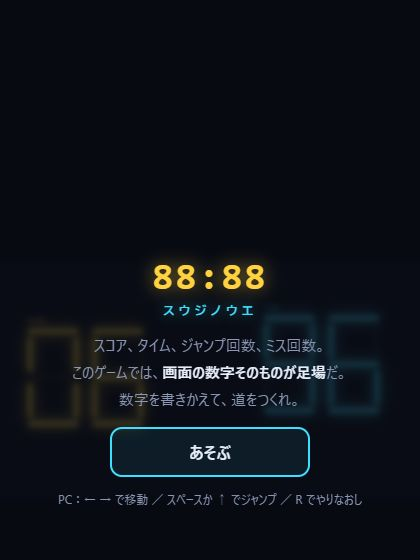
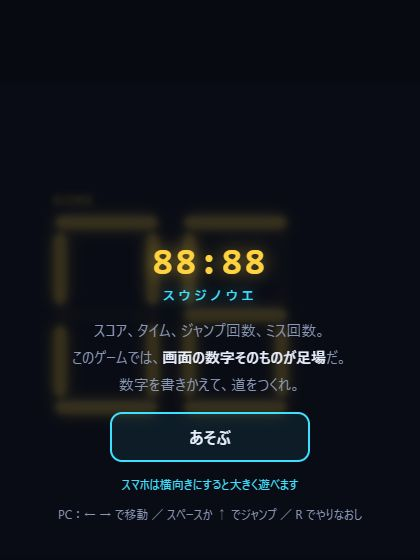
自動公開 / 更新: スウジノウエ

Changed region(s): [[0.0619, 0.3643, 0.9286, 0.9411], [0.1238, 0.8804, 0.1857, 0.9411]]

diff --git a/apps/suji-no-ue/index.html b/apps/suji-no-ue/index.html
@@ -50,6 +50,8 @@ h2{margin:0;font-size:24px}
 #pad button.on{background:rgba(63,224,255,.3);border-color:var(--time)}
 #pad #bJ{width:92px;height:92px;font-size:18px}
 .keys{font-size:12px;color:var(--muted)}
+.portrait{display:none;color:var(--time)}
+@media (orientation:portrait){.portrait{display:block}}
 </style>
 </head>
 <body>
@@ -71,6 +73,7 @@ h2{margin:0;font-size:24px}
   <div class="logo">88:88<small>スウジノウエ</small></div>
   <p class="lead">スコア、タイム、ジャンプ回数、ミス回数。<br>このゲームでは、<b>画面の数字そのものが足場</b>だ。<br>数字を書きかえて、道をつくれ。</p>
   <button class="btn" id="bStart">あそぶ</button>
+  <div class="keys portrait">スマホは横向きにすると大きく遊べます</div>
   <div class="keys">PC：← → で移動 ／ スペースか ↑ でジャンプ ／ R でやりなおし</div>
 </div>
 
@@ -97,7 +100,7 @@ h2{margin:0;font-size:24px}
 
 <script>
 /*! © kato200000354. 無断転載・複製・再配布を禁止します。 */
-const CORE=(()=>{const e=["abcdef","bc","abdeg","abcdg","bcfg","acdfg","acdefg","abc","abcdefg","abcdfg"],t=20,n=28;function o(e,t,n){const o=80*n,i=16*n,s=o+2*i;return{a:[e,t,s,i,1],g:[e,t+o+i,s,i,1],d:[e,t+2*o+2*i,s,i,1],f:[e,t+i,i,o,0],b:[e+o+i,t+i,i,o,0],e:[e,t+o+2*i,i,o,0],c:[e+o+i,t+o+2*i,i,o,0]}}function i(e,t){const n=e.s||1;return e.x+t*(112*n+22*n)}function s(e,t){const n=t.n||1,o=(Math.floor(function(e,t){switch(t.k){case"score":return e.score;case"time":return Math.max(0,Math.ceil(e.timeLeft-1e-9));case"jump":return e.jumps;case"miss":return e.miss;default:return t.v||0}}(e,t))%10**n+10**n)%10**n;return String(o).padStart(n,"0").split("").map(Number)}function a(t){const n=t.lv,a=[];n.solids.forEach((e,t)=>a.push({x:e[0],y:e[1],w:e[2],h:e[3],one:!1,k:"s"+t}));for(const l of n.hud)!1!==l.solid&&s(t,l).forEach((t,s)=>{const r=n.hud.indexOf(l)+"-"+s,c=o(i(l,s),l.y,l.s||1);for(const n of e[t]){const e=c[n];a.push({x:e[0],y:e[1],w:e[2],h:e[3],one:1===e[4],k:r+n})}});return a}function l(e,t=0){return{lv:e,px:e.start[0],py:e.start[1]-n,vx:0,vy:0,ground:!1,coy:0,buf:0,prevJ:!1,cut:!1,score:e.score||0,jumps:0,miss:t,timeLeft:e.time,t:0,taken:e.coins.map(()=>!1),dead:0,deadWhy:"",won:!1,face:1,ev:[]}}const r=(e,o)=>e.px<o.x+o.w&&e.px+t>o.x&&e.py<o.y+o.h&&e.py+n>o.y;function c(e,t){e.dead=.75,e.deadWhy=t,e.miss++,e.ev.push("die")}return{SEG:e,LEVELS:[{name:"スコアは足場",hint:"コインをとると SCORE が変わる。……その数字、乗れるよ。",time:60,score:1,start:[50,480],solids:[[0,480,280,60],[680,480,280,60]],hud:[{k:"score",x:424,y:480,n:1}],coins:[{x:160,y:455,v:1}],goal:[880,410]},{name:"TIMEは待ってくれない",hint:"TIME も足場。でも、数字は止まらない。",time:25,start:[50,480],solids:[[0,480,250,60],[720,480,240,60]],hud:[{k:"time",x:362,y:480,n:2}],coins:[],goal:[880,410]},{name:"JUMPの数だけ",hint:"ジャンプするたびに JUMP の形が変わる。高い所へ。",time:60,start:[50,480],solids:[[0,480,960,60],[760,220,200,20]],hud:[{k:"jump",x:600,y:272,n:1}],coins:[],goal:[880,150]},{name:"失敗が道をつくる",hint:"どうしても渡れない？　……MISS も、数字だ。",time:30,start:[50,480],solids:[[0,480,240,60],[746,480,214,60]],hud:[{k:"miss",x:420,y:355.2,n:1,s:1.3}],coins:[],goal:[880,410]},{name:"よけられないコイン",hint:"橋の上のコインは、よけられない。",time:60,score:0,start:[50,480],solids:[[0,480,260,60],[700,480,260,60],[460,0,40,442]],hud:[{k:"score",x:424,y:480,n:1}],coins:[{x:110,y:455,v:1},{x:200,y:360,v:2},{x:475,y:462,v:4}],goal:[880,410]},{name:"ぜんぶ足場",hint:"ここでは、すべての数字が足場。",w:1900,time:45,score:4,start:[50,480],solids:[[0,480,330,60],[330,230,170,20],[946,230,160,20],[940,480,330,60],[1640,480,260,60],[1385,0,40,442]],hud:[{k:"jump",x:200,y:272,n:1},{k:"time",x:600,y:230,n:2},{k:"score",x:1350,y:480,n:1}],coins:[{x:420,y:200,v:3},{x:1120,y:455,v:2},{x:1401,y:462,v:2}],goal:[1820,410]}],PW:t,PH:n,digitRects:o,digitX:i,hudDigits:s,activeRects:a,newState:l,step:function(e,o,i){if(e.won)return;if(e.dead>0)return e.dead-=i,void(e.dead<=0&&(!function(e){const t=e.miss,n=e.ev;Object.assign(e,l(e.lv,t)),e.ev=n}(e),e.ev.push("respawn")));if(e.t+=i,e.timeLeft-=i,e.timeLeft<=0)return e.timeLeft=0,void c(e,"time");let s=a(e);!function(e,o){for(const i of o){if(!r(e,i))continue;const o=e.py+n-i.y;if(i.one){o<=10&&e.vy>=0&&(e.py=i.y-n,e.vy=0);continue}const s=i.y+i.h-e.py,a=e.px+t-i.x,l=i.x+i.w-e.px,c=Math.min(.6*o,s,a,l);c===.6*o?(e.py=i.y-n,e.vy>0&&(e.vy=0)):c===s?e.py=i.y+i.h:e.px=c===a?i.x-t:i.x+i.w}}(e,s);const f=(o.r?1:0)-(o.l?1:0);f&&(e.face=f);const d=(e.ground?3200:2200)*i,h=250*f;e.vx=e.vx<h?Math.min(h,e.vx+d):Math.max(h,e.vx-d),o.j&&!e.prevJ&&(e.buf=.12),e.prevJ=!!o.j,e.buf>0&&(e.buf-=i),e.buf>0&&(e.ground||e.coy>0)&&(e.vy=-700,e.ground=!1,e.coy=0,e.buf=0,e.cut=!1,e.jumps++,e.ev.push("jump"),s=a(e)),!o.j&&e.vy<-320&&!e.cut&&(e.vy=-320,e.cut=!0),e.vy=Math.min(e.vy+1800*i,1100),e.px+=e.vx*i,e.px<0&&(e.px=0),e.px>(e.lv.w||960)-t&&(e.px=(e.lv.w||960)-t);for(const n of s)!n.one&&r(e,n)&&(e.px+10<n.x+n.w/2?e.px=n.x-t:e.px=n.x+n.w,e.vx=0);const u=e.py+n,p=e.ground;e.py+=e.vy*i,e.ground=!1;for(const t of s)r(e,t)&&(t.one?e.vy>=0&&u<=t.y+.5&&(e.py=t.y-n,e.vy=0,e.ground=!0,e.stand=t.k):e.vy>0?(e.py=t.y-n,e.vy=0,e.ground=!0,e.stand=t.k):e.vy<0&&(e.py=t.y+t.h,e.vy=0));if(e.ground||p&&e.vy>=0&&s.some(t=>t.k===e.stand)?e.coy=.09:p?e.coy=0:e.coy-=i,!e.ground&&p&&e.vy<0&&(e.coy=0),e.lv.coins.forEach((o,i)=>{if(e.taken[i])return;const s=Math.max(e.px,Math.min(o.x,e.px+t)),a=Math.max(e.py,Math.min(o.y,e.py+n));(s-o.x)**2+(a-o.y)**2<144&&(e.taken[i]=!0,e.score+=o.v,e.ev.push("coin"))}),e.py+n>494)return void c(e,"fall");const m=e.lv.goal;r(e,{x:m[0],y:m[1],w:44,h:70})&&(e.won=!0,e.ev.push("win"))}}})();(()=>{const{SEG:e,LEVELS:t,PW:n,PH:o,digitRects:i,digitX:s,hudDigits:a,newState:l,step:r}=CORE,c=960,f=540,d=1/120,h={score:"#ffd23f",time:"#3fe0ff",jump:"#7dff6a",miss:"#ff5c8a"},u={score:"SCORE",time:"TIME",jump:"JUMP",miss:"MISS"},p=e=>document.getElementById(e),m=p("cv"),y=m.getContext("2d");let v=1,x=0,g=0,b=1;const M="suji-no-ue-v1";let w={cleared:{},best:{}};try{const e=JSON.parse(localStorage.getItem(M));e&&e.cleared&&(w=e)}catch(e){}const S=()=>{try{localStorage.setItem(M,JSON.stringify(w))}catch(e){}};let k=null;function T(){if(!k)try{k=new(window.AudioContext||window.webkitAudioContext)}catch(e){}k&&"suspended"===k.state&&k.resume()}function E(e,t,n="square",o=.06,i){if(!k)return;const s=k.currentTime,a=k.createOscillator(),l=k.createGain();a.type=n,a.frequency.setValueAtTime(e,s),i&&a.frequency.exponentialRampToValueAtTime(i,s+t),l.gain.setValueAtTime(o,s),l.gain.exponentialRampToValueAtTime(1e-4,s+t),a.connect(l),l.connect(k.destination),a.start(s),a.stop(s+t+.02)}const L=()=>E(420,.12,"square",.04,760),R=()=>{E(988,.08,"square",.05),setTimeout(()=>E(1319,.14,"square",.05),70)},A=()=>E(300,.45,"sawtooth",.06,60),P=()=>[523,659,784,1047].forEach((e,t)=>setTimeout(()=>E(e,.18,"square",.05),90*t)),C=()=>E(1800,.025,"square",.015);let j="title",I=0,B=null,W=0,J=0,q=0,O=0,$="";const H={l:!1,r:!1,j:!1},G={};function N(){b=Math.min(2,window.devicePixelRatio||1),m.width=innerWidth*b,m.height=innerHeight*b,v=Math.min(innerWidth/c,innerHeight/f),x=(innerWidth-c*v)/2,g=(innerHeight-f*v)/2}function U(e){["title","select","clear","ending"].forEach(t=>p(t).hidden=t!==e)}function D(e){I=e,B=l(t[e]),j="play",q=0,W=0,$="",U(null),p("bar").hidden=!1,p("lvName").textContent=`STAGE ${e+1}　${t[e].name}`,p("skip").hidden=!0,p("pad").hidden=!F}function V(){j="select",p("bar").hidden=!0,p("pad").hidden=!0;const e=p("grid");e.innerHTML="",t.forEach((t,n)=>{const o=0===n||w.cleared[n-1]||w.cleared[n],i=document.createElement("button");i.className="lv"+(o?"":" locked")+(w.cleared[n]?" done":""),i.innerHTML=`<span class="n">${String(n+1).padStart(2,"0")}</span><span class="t">${o?t.name:"？？？"}</span><span class="c">${w.cleared[n]?"CLEAR　MISS "+w.best[n]:""}</span>`,o&&(i.onclick=()=>{T(),D(n)}),e.appendChild(i)}),U("select")}function K(){j="clear",w.cleared[I]=!0,w.best[I]=Math.min(w.best[I]??99,B.miss),S(),p("stats").innerHTML=`STAGE <span>${I+1}</span><br>MISS <span>${B.miss}</span>　TIME <span>${Math.ceil(B.timeLeft)}</span><br>ベストMISS <span>${w.best[I]}</span>`,p("pad").hidden=!0,setTimeout(()=>{"clear"===j&&(I===t.length-1?U("ending"):U("clear"))},700)}addEventListener("resize",N),N(),p("bStart").onclick=()=>{T(),V()},p("bBack").onclick=()=>{j="title",U("title")},p("bNext").onclick=()=>{T(),I+1<t.length?D(I+1):V()},p("bSel").onclick=V,p("bEnd").onclick=V,p("bMenu").onclick=V,p("bRe").onclick=()=>{if("play"===j){const e=B.miss;B=l(t[I],e)}},p("skip").onclick=()=>{w.cleared[I]=w.cleared[I]||!1,I+1<t.length?(w.cleared[I]=!0,w.best[I]=w.best[I]??99,S(),D(I+1)):V()},addEventListener("keydown",e=>{G[e.code]=!0,["Space","ArrowUp","ArrowDown","ArrowLeft","ArrowRight"].includes(e.code)&&e.preventDefault(),T(),"play"===j&&"KeyR"===e.code&&p("bRe").onclick(),"play"===j&&"Escape"===e.code&&V()}),addEventListener("keyup",e=>{G[e.code]=!1});let F=matchMedia("(pointer:coarse)").matches;addEventListener("touchstart",()=>{F||(F=!0,"play"===j&&(p("pad").hidden=!1))},{passive:!0});const X={bL:!1,bR:!1,bJ:!1};function _(e,t,n,o){const i=Math.min(n,o)/2;y.beginPath(),n>=o?(y.moveTo(e+i,t),y.lineTo(e+n-i,t),y.lineTo(e+n,t+i),y.lineTo(e+n-i,t+o),y.lineTo(e+i,t+o),y.lineTo(e,t+i)):(y.moveTo(e+i,t),y.lineTo(e+n,t+i),y.lineTo(e+n,t+o-i),y.lineTo(e+i,t+o),y.lineTo(e,t+o-i),y.lineTo(e,t+i)),y.closePath()}function z(t,n,o){const l=h[t.k]||"#b59cff",r=t.s||1,c=a(n,t);y.save(),y.font=`800 ${Math.round(13*r+3)}px ui-monospace,Consolas,monospace`,y.fillStyle=l,y.globalAlpha=.75,y.textBaseline="bottom",y.fillText(u[t.k]||"",t.x,t.y-6*r),y.globalAlpha=1,c.forEach((n,a)=>{const c=i(s(t,a),t.y,r),f=e[n];for(const e of"abcdefg"){const t=c[e],n=1.5*r,i=t[0]+n,s=t[1]+n,a=t[2]-2*n,d=t[3]-2*n,h=f.includes(e);_(i,s,a,d),h?(y.shadowColor=l,y.shadowBlur=o?14:8,y.fillStyle=l,y.fill(),y.shadowBlur=0,1===t[4]&&(y.fillStyle="rgba(255,255,255,.55)",y.fillRect(i+4,s,a-8,2))):(y.fillStyle=l+"14",y.fill(),y.strokeStyle=l+"22",y.lineWidth=1,y.stroke())}}),y.restore()}function Y(e){if(y.setTransform(1,0,0,1,0,0),y.fillStyle="#05070d",y.fillRect(0,0,m.width,m.height),y.setTransform(b*v,0,0,b*v,b*x,b*g),y.save(),y.beginPath(),y.rect(0,0,c,f),y.clip(),y.fillStyle="#0b0f1a",y.fillRect(0,0,c,f),!B)return function(e){const t=Math.floor(2*e)%100,n={score:t,timeLeft:99-Math.floor(e)%100,jumps:Math.floor(3*e),miss:0};y.globalAlpha=.35,z({k:"score",x:60,y:150,n:2,s:1.1},n,!0),z({k:"time",x:600,y:120,n:2,s:1.1},n,!0),y.globalAlpha=1}(e),void y.restore();const t=B.lv,i=t.w||c,s=Math.max(0,Math.min(i-c,B.px+n/2-480));let a=0,l=0;O>0&&(a=(Math.random()-.5)*O,l=(Math.random()-.5)*O),y.save(),y.translate(-s+a,l),y.strokeStyle="rgba(60,80,130,.12)",y.lineWidth=1;for(let e=40*Math.floor(s/40);e<s+c+40;e+=40)y.beginPath(),y.moveTo(e,0),y.lineTo(e,f),y.stroke();for(let e=0;e<f;e+=40)y.beginPath(),y.moveTo(s,e),y.lineTo(s+c,e),y.stroke();y.save(),y.fillStyle="rgba(255,92,138,.07)",y.fillRect(s,494,c,46),y.strokeStyle="#ff5c8a",y.shadowColor="#ff5c8a",y.shadowBlur=12,y.lineWidth=2.5,y.globalAlpha=.75+.2*Math.sin(9*e),y.beginPath(),y.moveTo(s,496),y.lineTo(s+c,496),y.stroke(),y.restore();for(const e of t.solids)y.fillStyle="#141b2b",y.fillRect(e[0],e[1],e[2],e[3]),y.strokeStyle="#3a4a70",y.lineWidth=2,y.strokeRect(e[0]+1,e[1]+1,e[2]-2,e[3]-2),e[1]>0&&(y.fillStyle="#5b6f9e",y.fillRect(e[0]+2,e[1]+2,e[2]-4,2));const r=t.goal;y.save(),y.strokeStyle="#7dff6a",y.shadowColor="#7dff6a",y.shadowBlur=12,y.lineWidth=3,y.beginPath(),y.moveTo(r[0]+8,r[1]+70),y.lineTo(r[0]+8,r[1]+4),y.stroke(),y.fillStyle="#7dff6a";const d=3*Math.sin(5*e);y.beginPath(),y.moveTo(r[0]+9,r[1]+4),y.lineTo(r[0]+42,r[1]+14+d),y.lineTo(r[0]+9,r[1]+26),y.fill(),y.shadowBlur=0,y.fillStyle="#0b0f1a",y.font="900 9px ui-monospace,Consolas,monospace",y.fillText("GOAL",r[0]+11,r[1]+18+.4*d),y.restore();for(const e of t.hud)z(e,B,!0);t.coins.forEach((t,n)=>{if(B.taken[n])return;const o=2*Math.sin(4*e+n),i=t.v<0,s=i?"#ff5c8a":"#ffd23f";y.save(),y.shadowColor=s,y.shadowBlur=12,y.fillStyle=s,y.beginPath(),y.arc(t.x,t.y+o,12,0,2*Math.PI),y.fill(),y.shadowBlur=0,y.fillStyle="#0b0f1a",y.font="900 11px ui-monospace,Consolas,monospace",y.textAlign="center",y.textBaseline="middle",y.fillText((i?"":"+")+t.v,t.x,t.y+o+1),y.restore()}),function(e,t){const i=e.px,s=e.py;if(y.save(),e.dead>0){const t=1-e.dead/.75;y.globalAlpha=Math.max(0,1-1.3*t),y.fillStyle="#ff5c8a";for(let e=0;e<8;e++){const a=e/8*Math.PI*2;y.fillRect(i+n/2+Math.cos(a)*t*50-3,s+o/2+Math.sin(a)*t*50-3,6,6)}return void y.restore()}const a=e.ground?0:Math.max(-4,Math.min(4,e.vy/160)),l=n-a,r=o+a,c=i+(n-l)/2,f=s+o-r;y.shadowColor="#fff",y.shadowBlur=10,y.fillStyle="#f4f7ff",y.beginPath(),y.roundRect(c,f,l,r,6),y.fill(),y.shadowBlur=0,y.fillStyle="#0b0f1a";const d=c+l/2+3*e.face;if(y.fillRect(d-5,f+8,3,6),y.fillRect(d+2,f+8,3,6),e.ground&&Math.abs(e.vx)>20){y.fillStyle="#f4f7ff";const e=3*Math.sin(22*t);y.fillRect(c+3+e,s+o,5,2),y.fillRect(c+l-8-e,s+o,5,2)}y.restore()}(B,e),y.restore(),t.hud.some(e=>"time"===e.k)||z({k:"time",x:868,y:48,n:2,s:.28},B,!1),t.hud.some(e=>"miss"===e.k)||z({k:"miss",x:800,y:48,n:1,s:.28},B,!1);const h=Math.max(.45,Math.min(1,1.6-q/6));y.save(),y.globalAlpha=h,y.fillStyle="#e8eefc",y.font='700 18px "Hiragino Maru Gothic ProN","Yu Gothic UI",Meiryo,sans-serif',y.textAlign="center",y.fillText(t.hint,480,96),y.restore(),B.dead>0&&(y.save(),y.fillStyle="#ff5c8a",y.font="900 44px ui-monospace,Consolas,monospace",y.textAlign="center",y.shadowColor="#ff5c8a",y.shadowBlur=16,y.fillText("time"===B.deadWhy?"TIME UP":"MISS",480,270),y.restore()),y.restore()}["bL","bR","bJ"].forEach(e=>{const t=p(e),n=n=>o=>{o.preventDefault(),T(),X[e]=n,t.classList.toggle("on",n)};t.addEventListener("pointerdown",e=>{t.setPointerCapture(e.pointerId),n(!0)(e)}),t.addEventListener("pointerup",n(!1)),t.addEventListener("pointercancel",n(!1)),t.addEventListener("lostpointercapture",()=>{X[e]=!1,t.classList.remove("on")})}),requestAnimationFrame(function e(t){const n=t/1e3,o=Math.min(.05,J?n-J:0);if(J=n,"play"===j&&B){for(H.l=!!(G.ArrowLeft||G.KeyA||X.bL),H.r=!!(G.ArrowRight||G.KeyD||X.bR),H.j=!!(G.Space||G.ArrowUp||G.KeyW||G.KeyZ||X.bJ),W+=o,q+=o;W>=d;)r(B,H,d),W-=d;for(const e of B.ev)"jump"===e?L():"coin"===e?R():"die"===e?(A(),O=12):"respawn"===e?B.miss>=5&&(p("skip").hidden=!1):"win"===e&&(P(),K());B.ev.length=0;const e=B.lv.hud.filter(e=>"time"!==e.k).map(e=>a(B,e).join("")).join("|");$&&e!==$&&C(),$=e}O=Math.max(0,O-40*o),Y(n),requestAnimationFrame(e)}),window.__game={get st(){return B},startLevel:D}})();
+const CORE=(()=>{const e=["abcdef","bc","abdeg","abcdg","bcfg","acdfg","acdefg","abc","abcdefg","abcdfg"],t=20,n=28;function o(e,t,n){const o=80*n,i=16*n,s=o+2*i;return{a:[e,t,s,i,1],g:[e,t+o+i,s,i,1],d:[e,t+2*o+2*i,s,i,1],f:[e,t+i,i,o,0],b:[e+o+i,t+i,i,o,0],e:[e,t+o+2*i,i,o,0],c:[e+o+i,t+o+2*i,i,o,0]}}function i(e,t){const n=e.s||1;return e.x+t*(112*n+22*n)}function s(e,t){const n=t.n||1,o=(Math.floor(function(e,t){switch(t.k){case"score":return e.score;case"time":return Math.max(0,Math.ceil(e.timeLeft-1e-9));case"jump":return e.jumps;case"miss":return e.miss;default:return t.v||0}}(e,t))%10**n+10**n)%10**n;return String(o).padStart(n,"0").split("").map(Number)}function a(t){const n=t.lv,a=[];n.solids.forEach((e,t)=>a.push({x:e[0],y:e[1],w:e[2],h:e[3],one:!1,k:"s"+t}));for(const l of n.hud)!1!==l.solid&&s(t,l).forEach((t,s)=>{const r=n.hud.indexOf(l)+"-"+s,c=o(i(l,s),l.y,l.s||1);for(const n of e[t]){const e=c[n];a.push({x:e[0],y:e[1],w:e[2],h:e[3],one:1===e[4],k:r+n})}});return a}function l(e,t=0){return{lv:e,px:e.start[0],py:e.start[1]-n,vx:0,vy:0,ground:!1,coy:0,buf:0,prevJ:!1,cut:!1,score:e.score||0,jumps:0,miss:t,timeLeft:e.time,t:0,taken:e.coins.map(()=>!1),dead:0,deadWhy:"",won:!1,face:1,ev:[]}}const r=(e,o)=>e.px<o.x+o.w&&e.px+t>o.x&&e.py<o.y+o.h&&e.py+n>o.y;function c(e,t){e.dead=.75,e.deadWhy=t,e.miss++,e.ev.push("die")}return{SEG:e,LEVELS:[{name:"スコアは足場",hint:"コインをとると SCORE が変わる。……その数字、乗れるよ。",time:60,score:1,start:[50,480],solids:[[0,480,280,60],[680,480,280,60]],hud:[{k:"score",x:424,y:480,n:1}],coins:[{x:160,y:455,v:1}],goal:[880,410]},{name:"TIMEは待ってくれない",hint:"TIME も足場。でも、数字は止まらない。",time:25,start:[50,480],solids:[[0,480,250,60],[720,480,240,60]],hud:[{k:"time",x:362,y:480,n:2}],coins:[],goal:[880,410]},{name:"JUMPの数だけ",hint:"ジャンプするたびに JUMP の形が変わる。高い所へ。",time:60,start:[50,480],solids:[[0,480,960,60],[760,220,200,20]],hud:[{k:"jump",x:600,y:272,n:1}],coins:[],goal:[880,150]},{name:"失敗が道をつくる",hint:"どうしても渡れない？　……MISS も、数字だ。",time:30,start:[50,480],solids:[[0,480,240,60],[746,480,214,60]],hud:[{k:"miss",x:420,y:355.2,n:1,s:1.3}],coins:[],goal:[880,410]},{name:"よけられないコイン",hint:"橋の上のコインは、よけられない。",time:60,score:0,start:[50,480],solids:[[0,480,260,60],[700,480,260,60],[460,0,40,442]],hud:[{k:"score",x:424,y:480,n:1}],coins:[{x:110,y:455,v:1},{x:200,y:360,v:2},{x:475,y:462,v:4}],goal:[880,410]},{name:"ぜんぶ足場",hint:"ここでは、すべての数字が足場。",w:1900,time:45,score:4,start:[50,480],solids:[[0,480,330,60],[330,230,170,20],[946,230,160,20],[940,480,330,60],[1640,480,260,60],[1385,0,40,442]],hud:[{k:"jump",x:200,y:272,n:1},{k:"time",x:600,y:230,n:2},{k:"score",x:1350,y:480,n:1}],coins:[{x:420,y:200,v:3},{x:1120,y:455,v:2},{x:1401,y:462,v:2}],goal:[1820,410]}],PW:t,PH:n,digitRects:o,digitX:i,hudDigits:s,activeRects:a,newState:l,step:function(e,o,i){if(e.won)return;if(e.dead>0)return e.dead-=i,void(e.dead<=0&&(!function(e){const t=e.miss,n=e.ev;Object.assign(e,l(e.lv,t)),e.ev=n}(e),e.ev.push("respawn")));if(e.t+=i,e.timeLeft-=i,e.timeLeft<=0)return e.timeLeft=0,void c(e,"time");let s=a(e);!function(e,o){for(const i of o){if(!r(e,i))continue;const o=e.py+n-i.y;if(i.one){o<=10&&e.vy>=0&&(e.py=i.y-n,e.vy=0);continue}const s=i.y+i.h-e.py,a=e.px+t-i.x,l=i.x+i.w-e.px,c=Math.min(.6*o,s,a,l);c===.6*o?(e.py=i.y-n,e.vy>0&&(e.vy=0)):c===s?e.py=i.y+i.h:e.px=c===a?i.x-t:i.x+i.w}}(e,s);const d=(o.r?1:0)-(o.l?1:0);d&&(e.face=d);const f=(e.ground?3200:2200)*i,h=250*d;e.vx=e.vx<h?Math.min(h,e.vx+f):Math.max(h,e.vx-f),o.j&&!e.prevJ&&(e.buf=.12),e.prevJ=!!o.j,e.buf>0&&(e.buf-=i),e.buf>0&&(e.ground||e.coy>0)&&(e.vy=-700,e.ground=!1,e.coy=0,e.buf=0,e.cut=!1,e.jumps++,e.ev.push("jump"),s=a(e)),!o.j&&e.vy<-320&&!e.cut&&(e.vy=-320,e.cut=!0),e.vy=Math.min(e.vy+1800*i,1100),e.px+=e.vx*i,e.px<0&&(e.px=0),e.px>(e.lv.w||960)-t&&(e.px=(e.lv.w||960)-t);for(const n of s)!n.one&&r(e,n)&&(e.px+10<n.x+n.w/2?e.px=n.x-t:e.px=n.x+n.w,e.vx=0);const u=e.py+n,p=e.ground;e.py+=e.vy*i,e.ground=!1;for(const t of s)r(e,t)&&(t.one?e.vy>=0&&u<=t.y+.5&&(e.py=t.y-n,e.vy=0,e.ground=!0,e.stand=t.k):e.vy>0?(e.py=t.y-n,e.vy=0,e.ground=!0,e.stand=t.k):e.vy<0&&(e.py=t.y+t.h,e.vy=0));if(e.ground||p&&e.vy>=0&&s.some(t=>t.k===e.stand)?e.coy=.09:p?e.coy=0:e.coy-=i,!e.ground&&p&&e.vy<0&&(e.coy=0),e.lv.coins.forEach((o,i)=>{if(e.taken[i])return;const s=Math.max(e.px,Math.min(o.x,e.px+t)),a=Math.max(e.py,Math.min(o.y,e.py+n));(s-o.x)**2+(a-o.y)**2<144&&(e.taken[i]=!0,e.score+=o.v,e.ev.push("coin"))}),e.py+n>494)return void c(e,"fall");const m=e.lv.goal;r(e,{x:m[0],y:m[1],w:44,h:70})&&(e.won=!0,e.ev.push("win"))}}})();(()=>{const{SEG:e,LEVELS:t,PW:n,PH:o,digitRects:i,digitX:s,hudDigits:a,newState:l,step:r}=CORE;let c=960;const d=540,f=1/120,h={score:"#ffd23f",time:"#3fe0ff",jump:"#7dff6a",miss:"#ff5c8a"},u={score:"SCORE",time:"TIME",jump:"JUMP",miss:"MISS"},p=e=>document.getElementById(e),m=p("cv"),y=m.getContext("2d");let v=1,x=0,g=0,b=1;const M="suji-no-ue-v1";let w={cleared:{},best:{}};try{const e=JSON.parse(localStorage.getItem(M));e&&e.cleared&&(w=e)}catch(e){}const S=()=>{try{localStorage.setItem(M,JSON.stringify(w))}catch(e){}};let k=null;function T(){if(!k)try{k=new(window.AudioContext||window.webkitAudioContext)}catch(e){}k&&"suspended"===k.state&&k.resume()}function E(e,t,n="square",o=.06,i){if(!k)return;const s=k.currentTime,a=k.createOscillator(),l=k.createGain();a.type=n,a.frequency.setValueAtTime(e,s),i&&a.frequency.exponentialRampToValueAtTime(i,s+t),l.gain.setValueAtTime(o,s),l.gain.exponentialRampToValueAtTime(1e-4,s+t),a.connect(l),l.connect(k.destination),a.start(s),a.stop(s+t+.02)}const L=()=>E(420,.12,"square",.04,760),R=()=>{E(988,.08,"square",.05),setTimeout(()=>E(1319,.14,"square",.05),70)},A=()=>E(300,.45,"sawtooth",.06,60),P=()=>[523,659,784,1047].forEach((e,t)=>setTimeout(()=>E(e,.18,"square",.05),90*t)),C=()=>E(1800,.025,"square",.015);let j="title",I=0,W=null,B=0,H=0,J=0,$=0,q="";const O={l:!1,r:!1,j:!1},G={};function N(){b=Math.min(2,window.devicePixelRatio||1),m.width=innerWidth*b,m.height=innerHeight*b,innerWidth/innerHeight<1.3?(v=Math.min(innerWidth/480,.66*innerHeight/d),c=Math.min(960,innerWidth/v),x=(innerWidth-c*v)/2,g=Math.max(56,(innerHeight-d*v)/2-60)):(c=960,v=Math.min(innerWidth/c,innerHeight/d),x=(innerWidth-c*v)/2,g=(innerHeight-d*v)/2)}function U(e){["title","select","clear","ending"].forEach(t=>p(t).hidden=t!==e)}function D(e){I=e,W=l(t[e]),j="play",J=0,B=0,q="",U(null),p("bar").hidden=!1,p("lvName").textContent=`STAGE ${e+1}　${t[e].name}`,p("skip").hidden=!0,p("pad").hidden=!F}function V(){j="select",p("bar").hidden=!0,p("pad").hidden=!0;const e=p("grid");e.innerHTML="",t.forEach((t,n)=>{const o=0===n||w.cleared[n-1]||w.cleared[n],i=document.createElement("button");i.className="lv"+(o?"":" locked")+(w.cleared[n]?" done":""),i.innerHTML=`<span class="n">${String(n+1).padStart(2,"0")}</span><span class="t">${o?t.name:"？？？"}</span><span class="c">${w.cleared[n]?"CLEAR　MISS "+w.best[n]:""}</span>`,o&&(i.onclick=()=>{T(),D(n)}),e.appendChild(i)}),U("select")}function K(){j="clear",w.cleared[I]=!0,w.best[I]=Math.min(w.best[I]??99,W.miss),S(),p("stats").innerHTML=`STAGE <span>${I+1}</span><br>MISS <span>${W.miss}</span>　TIME <span>${Math.ceil(W.timeLeft)}</span><br>ベストMISS <span>${w.best[I]}</span>`,p("pad").hidden=!0,setTimeout(()=>{"clear"===j&&(I===t.length-1?U("ending"):U("clear"))},700)}addEventListener("resize",N),N(),p("bStart").onclick=()=>{T(),V()},p("bBack").onclick=()=>{j="title",U("title")},p("bNext").onclick=()=>{T(),I+1<t.length?D(I+1):V()},p("bSel").onclick=V,p("bEnd").onclick=V,p("bMenu").onclick=V,p("bRe").onclick=()=>{if("play"===j){const e=W.miss;W=l(t[I],e)}},p("skip").onclick=()=>{w.cleared[I]=w.cleared[I]||!1,I+1<t.length?(w.cleared[I]=!0,w.best[I]=w.best[I]??99,S(),D(I+1)):V()},addEventListener("keydown",e=>{G[e.code]=!0,["Space","ArrowUp","ArrowDown","ArrowLeft","ArrowRight"].includes(e.code)&&e.preventDefault(),T(),"play"===j&&"KeyR"===e.code&&p("bRe").onclick(),"play"===j&&"Escape"===e.code&&V()}),addEventListener("keyup",e=>{G[e.code]=!1});let F=matchMedia("(pointer:coarse)").matches;addEventListener("touchstart",()=>{F||(F=!0,"play"===j&&(p("pad").hidden=!1))},{passive:!0});const X={bL:!1,bR:!1,bJ:!1};function _(e,t,n,o){const i=Math.min(n,o)/2;y.beginPath(),n>=o?(y.moveTo(e+i,t),y.lineTo(e+n-i,t),y.lineTo(e+n,t+i),y.lineTo(e+n-i,t+o),y.lineTo(e+i,t+o),y.lineTo(e,t+i)):(y.moveTo(e+i,t),y.lineTo(e+n,t+i),y.lineTo(e+n,t+o-i),y.lineTo(e+i,t+o),y.lineTo(e,t+o-i),y.lineTo(e,t+i)),y.closePath()}function z(t,n,o){const l=h[t.k]||"#b59cff",r=t.s||1,c=a(n,t);y.save(),y.font=`800 ${Math.round(13*r+3)}px ui-monospace,Consolas,monospace`,y.fillStyle=l,y.globalAlpha=.75,y.textBaseline="bottom",y.fillText(u[t.k]||"",t.x,t.y-6*r),y.globalAlpha=1,c.forEach((n,a)=>{const c=i(s(t,a),t.y,r),d=e[n];for(const e of"abcdefg"){const t=c[e],n=1.5*r,i=t[0]+n,s=t[1]+n,a=t[2]-2*n,f=t[3]-2*n,h=d.includes(e);_(i,s,a,f),h?(y.shadowColor=l,y.shadowBlur=o?14:8,y.fillStyle=l,y.fill(),y.shadowBlur=0,1===t[4]&&(y.fillStyle="rgba(255,255,255,.55)",y.fillRect(i+4,s,a-8,2))):(y.fillStyle=l+"14",y.fill(),y.strokeStyle=l+"22",y.lineWidth=1,y.stroke())}}),y.restore()}function Y(e){if(y.setTransform(1,0,0,1,0,0),y.fillStyle="#05070d",y.fillRect(0,0,m.width,m.height),y.setTransform(b*v,0,0,b*v,b*x,b*g),y.save(),y.beginPath(),y.rect(0,0,c,d),y.clip(),y.fillStyle="#0b0f1a",y.fillRect(0,0,c,d),!W)return function(e){const t=Math.floor(2*e)%100,n={score:t,timeLeft:99-Math.floor(e)%100,jumps:Math.floor(3*e),miss:0};y.globalAlpha=.35,z({k:"score",x:60,y:150,n:2,s:1.1},n,!0),z({k:"time",x:600,y:120,n:2,s:1.1},n,!0),y.globalAlpha=1}(e),void y.restore();const t=W.lv,i=t.w||c,s=Math.max(0,Math.min(i-c,W.px+n/2-c/2));let a=0,l=0;$>0&&(a=(Math.random()-.5)*$,l=(Math.random()-.5)*$),y.save(),y.translate(-s+a,l),y.strokeStyle="rgba(60,80,130,.12)",y.lineWidth=1;for(let e=40*Math.floor(s/40);e<s+c+40;e+=40)y.beginPath(),y.moveTo(e,0),y.lineTo(e,d),y.stroke();for(let e=0;e<d;e+=40)y.beginPath(),y.moveTo(s,e),y.lineTo(s+c,e),y.stroke();y.save(),y.fillStyle="rgba(255,92,138,.07)",y.fillRect(s,494,c,46),y.strokeStyle="#ff5c8a",y.shadowColor="#ff5c8a",y.shadowBlur=12,y.lineWidth=2.5,y.globalAlpha=.75+.2*Math.sin(9*e),y.beginPath(),y.moveTo(s,496),y.lineTo(s+c,496),y.stroke(),y.restore();for(const e of t.solids)y.fillStyle="#141b2b",y.fillRect(e[0],e[1],e[2],e[3]),y.strokeStyle="#3a4a70",y.lineWidth=2,y.strokeRect(e[0]+1,e[1]+1,e[2]-2,e[3]-2),e[1]>0&&(y.fillStyle="#5b6f9e",y.fillRect(e[0]+2,e[1]+2,e[2]-4,2));const r=t.goal;y.save(),y.strokeStyle="#7dff6a",y.shadowColor="#7dff6a",y.shadowBlur=12,y.lineWidth=3,y.beginPath(),y.moveTo(r[0]+8,r[1]+70),y.lineTo(r[0]+8,r[1]+4),y.stroke(),y.fillStyle="#7dff6a";const f=3*Math.sin(5*e);y.beginPath(),y.moveTo(r[0]+9,r[1]+4),y.lineTo(r[0]+42,r[1]+14+f),y.lineTo(r[0]+9,r[1]+26),y.fill(),y.shadowBlur=0,y.fillStyle="#0b0f1a",y.font="900 9px ui-monospace,Consolas,monospace",y.fillText("GOAL",r[0]+11,r[1]+18+.4*f),y.restore();for(const e of t.hud)z(e,W,!0);t.coins.forEach((t,n)=>{if(W.taken[n])return;const o=2*Math.sin(4*e+n),i=t.v<0,s=i?"#ff5c8a":"#ffd23f";y.save(),y.shadowColor=s,y.shadowBlur=12,y.fillStyle=s,y.beginPath(),y.arc(t.x,t.y+o,12,0,2*Math.PI),y.fill(),y.shadowBlur=0,y.fillStyle="#0b0f1a",y.font="900 11px ui-monospace,Consolas,monospace",y.textAlign="center",y.textBaseline="middle",y.fillText((i?"":"+")+t.v,t.x,t.y+o+1),y.restore()}),function(e,t){const i=e.px,s=e.py;if(y.save(),e.dead>0){const t=1-e.dead/.75;y.globalAlpha=Math.max(0,1-1.3*t),y.fillStyle="#ff5c8a";for(let e=0;e<8;e++){const a=e/8*Math.PI*2;y.fillRect(i+n/2+Math.cos(a)*t*50-3,s+o/2+Math.sin(a)*t*50-3,6,6)}return void y.restore()}const a=e.ground?0:Math.max(-4,Math.min(4,e.vy/160)),l=n-a,r=o+a,c=i+(n-l)/2,d=s+o-r;y.shadowColor="#fff",y.shadowBlur=10,y.fillStyle="#f4f7ff",y.beginPath(),y.roundRect(c,d,l,r,6),y.fill(),y.shadowBlur=0,y.fillStyle="#0b0f1a";const f=c+l/2+3*e.face;if(y.fillRect(f-5,d+8,3,6),y.fillRect(f+2,d+8,3,6),e.ground&&Math.abs(e.vx)>20){y.fillStyle="#f4f7ff";const e=3*Math.sin(22*t);y.fillRect(c+3+e,s+o,5,2),y.fillRect(c+l-8-e,s+o,5,2)}y.restore()}(W,e),y.restore(),t.hud.some(e=>"time"===e.k)||z({k:"time",x:c-92,y:48,n:2,s:.28},W,!1),t.hud.some(e=>"miss"===e.k)||z({k:"miss",x:c-160,y:48,n:1,s:.28},W,!1);const h=Math.max(.45,Math.min(1,1.6-J/6));y.save(),y.globalAlpha=h,y.fillStyle="#e8eefc";let u=18;do{y.font=`700 ${u}px "Hiragino Maru Gothic ProN","Yu Gothic UI",Meiryo,sans-serif`}while(y.measureText(t.hint).width>c-30&&--u>11);y.textAlign="center",y.fillText(t.hint,c/2,96),y.restore(),W.dead>0&&(y.save(),y.fillStyle="#ff5c8a",y.font="900 44px ui-monospace,Consolas,monospace",y.textAlign="center",y.shadowColor="#ff5c8a",y.shadowBlur=16,y.fillText("time"===W.deadWhy?"TIME UP":"MISS",c/2,270),y.restore()),y.restore()}["bL","bR","bJ"].forEach(e=>{const t=p(e),n=n=>o=>{o.preventDefault(),T(),X[e]=n,t.classList.toggle("on",n)};t.addEventListener("pointerdown",e=>{t.setPointerCapture(e.pointerId),n(!0)(e)}),t.addEventListener("pointerup",n(!1)),t.addEventListener("pointercancel",n(!1)),t.addEventListener("lostpointercapture",()=>{X[e]=!1,t.classList.remove("on")})}),requestAnimationFrame(function e(t){const n=t/1e3,o=Math.min(.05,H?n-H:0);if(H=n,"play"===j&&W){for(O.l=!!(G.ArrowLeft||G.KeyA||X.bL),O.r=!!(G.ArrowRight||G.KeyD||X.bR),O.j=!!(G.Space||G.ArrowUp||G.KeyW||G.KeyZ||X.bJ),B+=o,J+=o;B>=f;)r(W,O,f),B-=f;for(const e of W.ev)"jump"===e?L():"coin"===e?R():"die"===e?(A(),$=12):"respawn"===e?W.miss>=5&&(p("skip").hidden=!1):"win"===e&&(P(),K());W.ev.length=0;const e=W.lv.hud.filter(e=>"time"!==e.k).map(e=>a(W,e).join("")).join("|");q&&e!==q&&C(),q=e}$=Math.max(0,$-40*o),Y(n),requestAnimationFrame(e)}),window.__game={get st(){return W},startLevel:D}})();
 </script>
 <script src="../../playtime.js" defer></script>
 </body>
